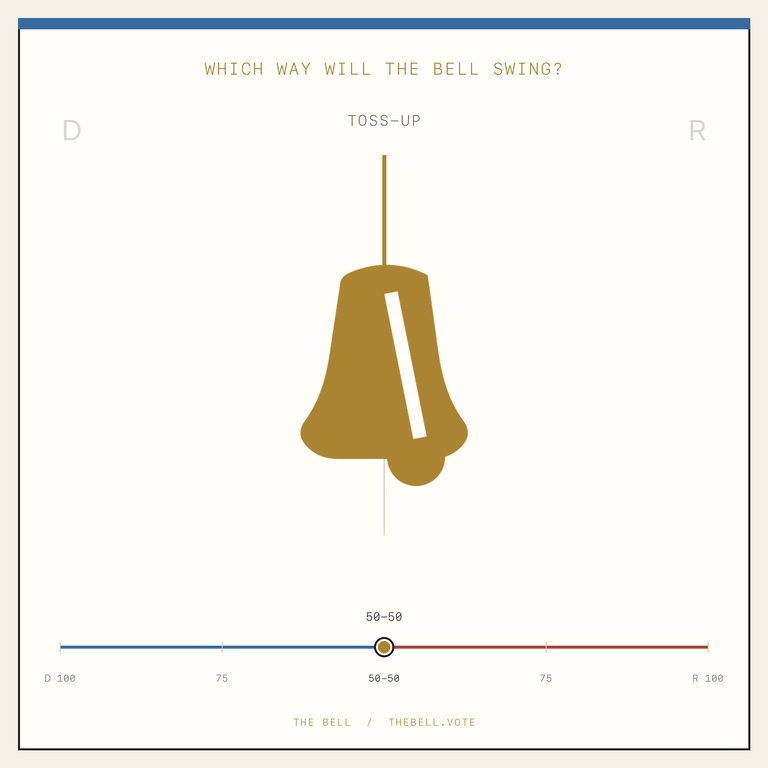
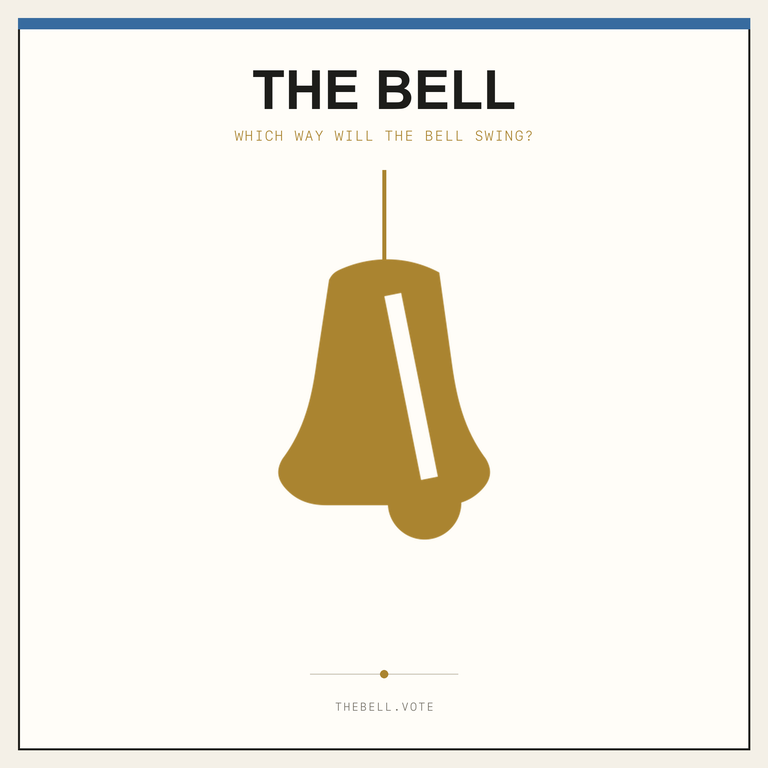
Center Bell social animation on brand

diff --git a/scripts/make-social-bell-gif.py b/scripts/make-social-bell-gif.py
@@ -16,6 +16,7 @@ BG, SURFACE, INK = "#F4F0E7", "#FFFDF8", "#1D1D1A"
 MUTED, LINE = "#6F6B62", "#CBC5B7"
 BLUE, RED, GOLD = "#376B9F", "#A94339", "#AA8430"
 DISPLAY = "/System/Library/Fonts/SFNS.ttf"
+DISPLAY_BOLD = "/System/Library/Fonts/Supplemental/Arial Bold.ttf"
 MONO = "/System/Library/Fonts/SFNSMono.ttf"
 
 
@@ -35,7 +36,7 @@ def exact_bell_body():
                 alpha = 0
             pixels[x, y] = (170, 132, 48, alpha)
     body = mark.crop(mark.getbbox())
-    target_h = s(225)
+    target_h = s(285)
     target_w = round(body.width * target_h / body.height)
     return body.resize((target_w, target_h), Image.Resampling.LANCZOS)
 
@@ -56,48 +57,29 @@ def centered(draw, x, y, text, face, fill, tracking=0):
 def make_frame(body, index):
     phase = sin(2 * pi * index / FRAMES)
     angle = 18 * phase
-    democratic = round(50 - phase * 22)
-    republican = 100 - democratic
     canvas = Image.new("RGBA", (W, W), BG)
     draw = ImageDraw.Draw(canvas)
 
     draw.rectangle((s(18), s(18), s(750), s(750)), fill=SURFACE, outline=INK, width=s(2))
     draw.rectangle((s(18), s(18), s(750), s(29)), fill=BLUE)
-    centered(draw, W / 2, s(58), "WHICH WAY WILL THE BELL SWING?", font(MONO, 17), GOLD, 1.5)
-    centered(draw, W / 2, s(111), "TOSS-UP", font(MONO, 15), MUTED, 1.2)
-    draw.text((s(62), s(112)), "D", font=font(DISPLAY, 29), fill="#D7D6CF")
-    rbox = draw.textbbox((0, 0), "R", font=font(DISPLAY, 29))
-    draw.text((s(706) - (rbox[2] - rbox[0]), s(112)), "R", font=font(DISPLAY, 29), fill="#D7D6CF")
+    centered(draw, W / 2, s(60), "THE BELL", font(DISPLAY_BOLD, 54), INK)
+    centered(draw, W / 2, s(127), "WHICH WAY WILL THE BELL SWING?", font(MONO, 14), GOLD, 1.4)
 
-    pivot_x, pivot_y = s(384), s(155)
-    draw.line((pivot_x, pivot_y, pivot_x, s(535)), fill=LINE, width=s(1))
+    pivot_x, pivot_y = s(384), s(170)
     layer = Image.new("RGBA", (s(520), s(520)), (0, 0, 0, 0))
     layer_draw = ImageDraw.Draw(layer)
     local_pivot = (s(260), s(45))
     body_x = local_pivot[0] - body.width // 2
-    body_y = s(153)
+    body_y = s(132)
     layer_draw.line((local_pivot[0], local_pivot[1], local_pivot[0], body_y + s(5)), fill=GOLD, width=s(4))
     layer.alpha_composite(body, (body_x, body_y))
     moved = layer.rotate(angle, resample=Image.Resampling.BICUBIC, center=local_pivot, expand=False)
     canvas.alpha_composite(moved, (pivot_x - local_pivot[0], pivot_y - local_pivot[1]))
 
-    axis_left, axis_right, axis_y = s(60), s(708), s(647)
-    middle = (axis_left + axis_right) // 2
-    draw.line((axis_left, axis_y, middle - s(2), axis_y), fill=BLUE, width=s(3))
-    draw.line((middle + s(2), axis_y, axis_right, axis_y), fill=RED, width=s(3))
-    for fraction in (0, .25, .5, .75, 1):
-        x = axis_left + (axis_right - axis_left) * fraction
-        color, height = (INK, 15) if fraction == .5 else (LINE, 10)
-        draw.line((x, axis_y - s(height / 2), x, axis_y + s(height / 2)), fill=color, width=s(1))
-    marker_x = axis_left + (axis_right - axis_left) * (republican / 100)
-    marker_r = s(10)
-    draw.ellipse((marker_x-marker_r, axis_y-marker_r, marker_x+marker_r, axis_y+marker_r), fill=SURFACE, outline=INK, width=s(2))
-    draw.ellipse((marker_x-s(6), axis_y-s(6), marker_x+s(6), axis_y+s(6)), fill=GOLD)
-    leader = "50-50" if democratic == 50 else f"{max(democratic, republican)}% {'D' if democratic > republican else 'R'}"
-    centered(draw, marker_x, s(609), leader, font(MONO, 12), INK)
-    for x, label in ((60,"D 100"),(222,"75"),(384,"50-50"),(546,"75"),(708,"R 100")):
-        centered(draw, s(x), s(672), label, font(MONO, 10), INK if x == 384 else MUTED)
-    centered(draw, W / 2, s(716), "THE BELL  /  THEBELL.VOTE", font(MONO, 10), GOLD, 1.1)
+    draw.line((s(310), s(674), s(458), s(674)), fill=LINE, width=s(1))
+    dot_x = s(384 + phase * 70)
+    draw.ellipse((dot_x-s(4), s(670), dot_x+s(4), s(678)), fill=GOLD)
+    centered(draw, W / 2, s(700), "THEBELL.VOTE", font(MONO, 11), MUTED, 1.7)
     return canvas.resize((SIZE, SIZE), Image.Resampling.LANCZOS)
 
 
